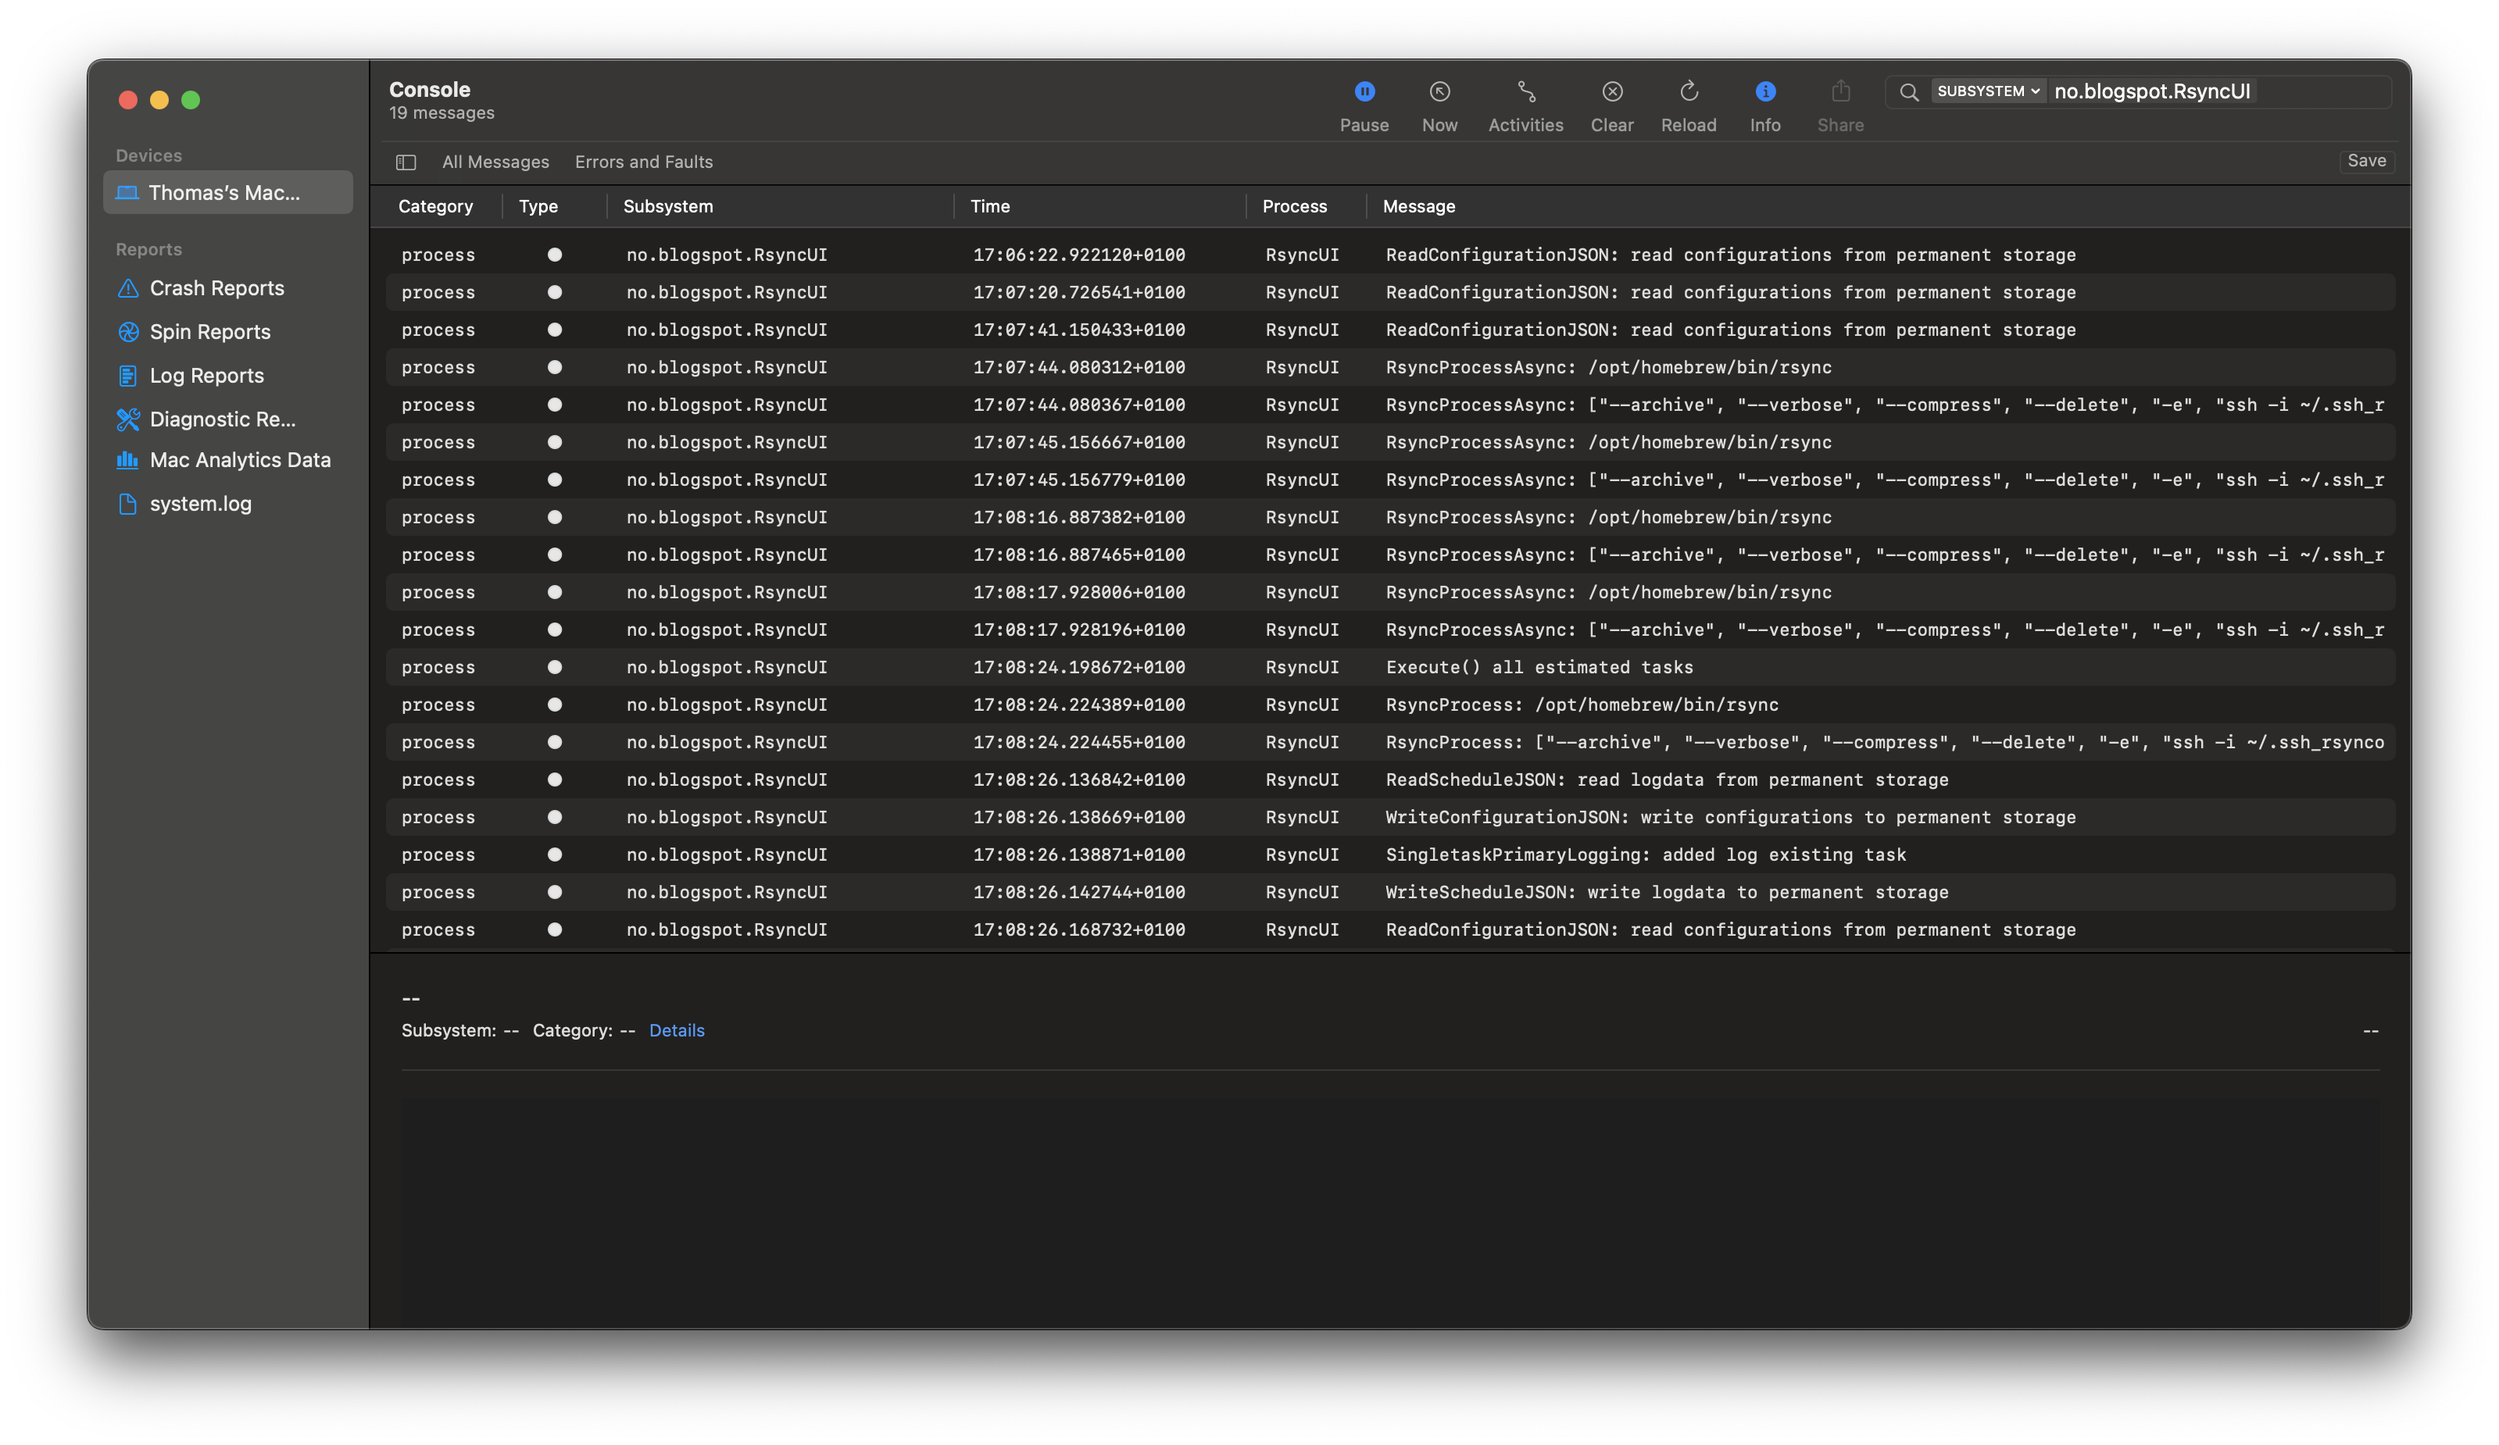
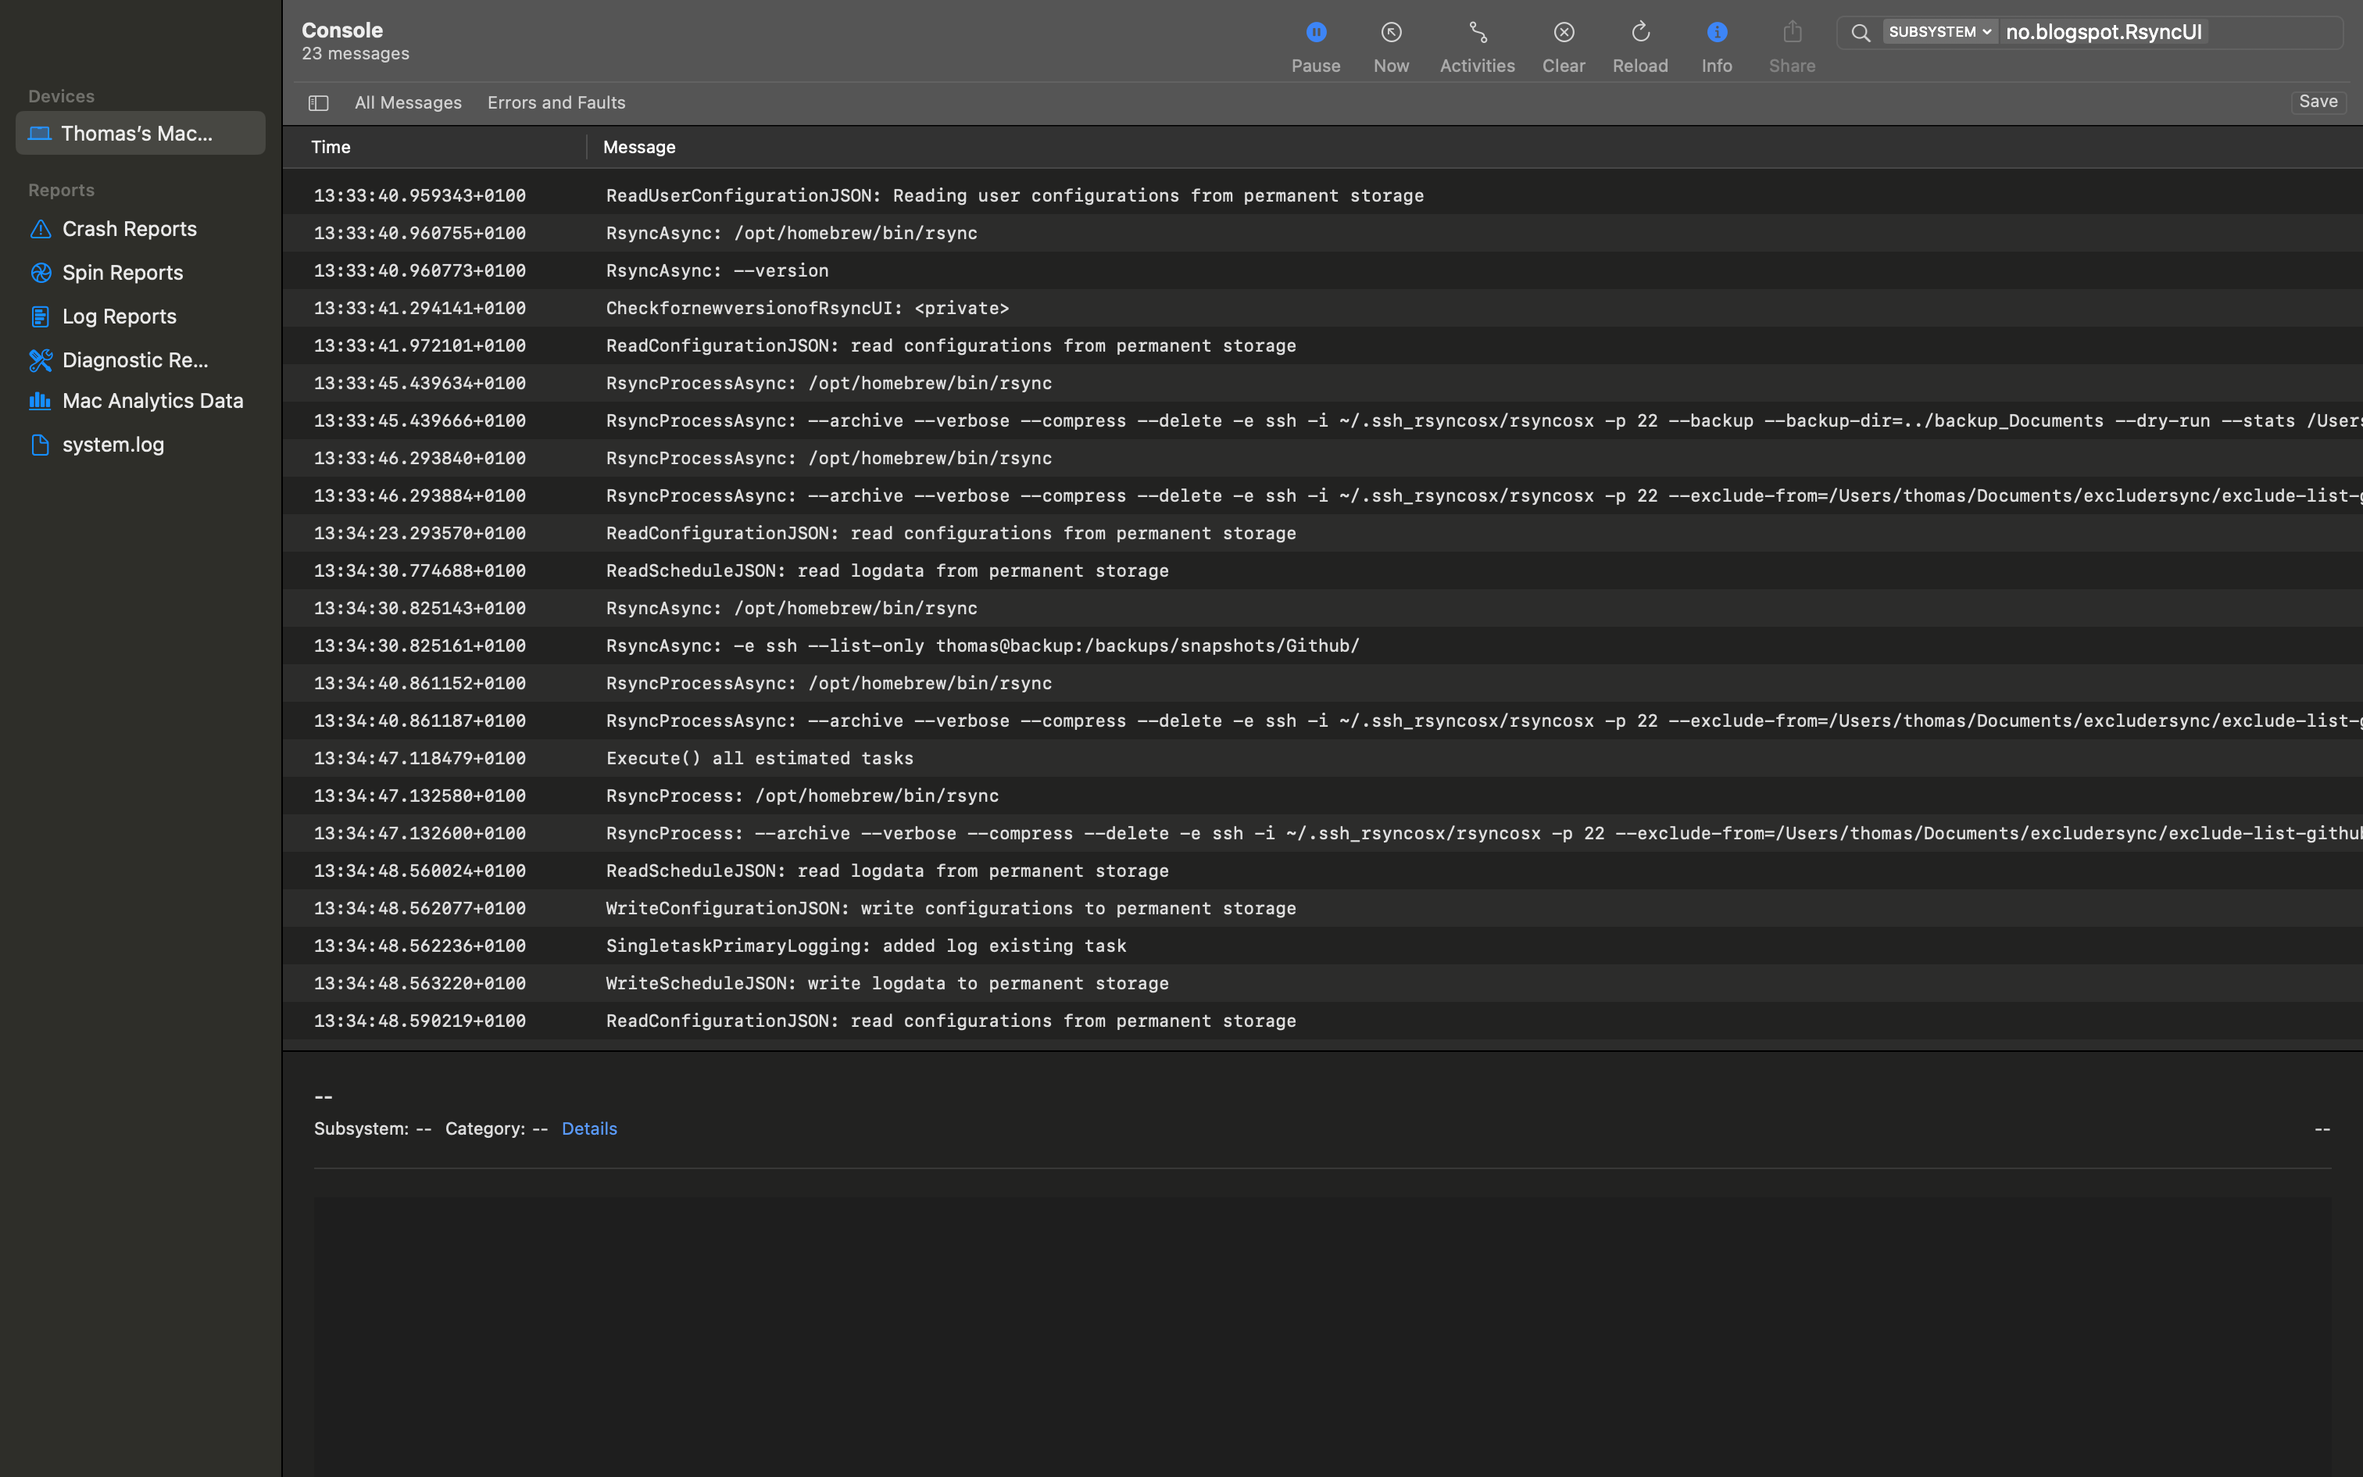
Update

diff --git a/content/post/Changelog.md b/content/post/Changelog.md
@@ -8,6 +8,10 @@ lastmod = "2023-06-09"
 +++
 RsyncUI is [signed and notarized](/post/notarized/) and built as [Universal macOS Binary](https://developer.apple.com/documentation/xcode/building_a_universal_macos_binary). Please see info about [the latest version of rsync in install](/post/rsync/).
 
+### OSLog (5 Nov 2023)
+
+OSLog, a unified logging system developed by Apple, is implemented in both versions. If you want to verify or just see what RsyncUI is executing of commands for `rsync`, you can from next release in late November, use the Console app to verify the commands. Please see more info about OSLog in [the built](/post/Built/) documentation.
+
 ## Version 1.7.7 build (87)  and 1.7.4 build (87) - 31 October 2023
 
 *Version 1.7.4 build(87)* supports all macOS versions from macOS Monterey and is available from Homebrew as well.  
@@ -31,8 +35,6 @@ Changes as for the macOS Sonoma build, but built for macOS Monterey to macOS Son
 For **macOS Sonoma** only and only by direct [download](https://github.com/rsyncOSX/RsyncUI/releases/download/v1.7.6/RsyncUI.1.7.6.dmg) from GitHub. This is a maintenance release. 
 
 There are some minor fixes and the major work is replacing the ShellOut package with an updated and maintained package. The ShellOut in the released version of RsyncUI is not working. The ShellOut let the user execute shellscript ahead and after execution of a synchronization task. A shell script might be like moving files, mounting a filesystem from a remote server and so on. The ShellOut must be used with care and most likely only the advanced macOS users with experience in writing shellscripts might find this feature usefull. 
-
-OSLog is also included in this build, see [the how is the app built](/post/Built/)  for more info. 
 
 ## Version 1.7.5 build (84) - 28 September 2023
 
